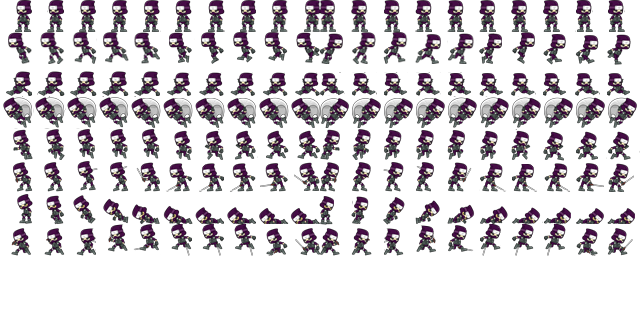
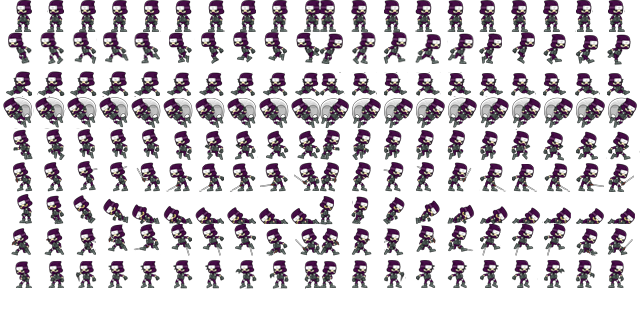
Missile and kunai working

Changed region(s): [[0.0, 0.8125, 1.0, 0.9062]]

diff --git a/NinjaAdventures.js b/NinjaAdventures.js
@@ -53,6 +53,10 @@
 				else if(this.entity.p.direction == "left")
 					this.entity.p.x -= col.obj.p.w;
 			}
+			else if(col.obj.isA("NinjaKunai")) {
+				this.entity.damage(col.obj.p.attack);
+				col.obj.destroy();
+			}
 		}
 
 		/*colisiones: function(collision) {
@@ -91,6 +95,16 @@
 			this.on("playerDie", this, "finish");
 
 			this.on("hit", this, "collision");
+
+			this.on("throwKunai", this, "throw");
+		},
+
+		throw: function() {
+			Q.audio.play("kunai_noise");
+			if(this.p.direction == "right")
+				Q.stage().insert(new Q.NinjaKunai({x: this.p.x + this.p.w, y: this.p.y, direction: this.p.direction, vx: 400, init: this.p.x}));
+			else if(this.p.direction == "left")
+				Q.stage().insert(new Q.NinjaKunai({x: this.p.x - this.p.w, y: this.p.y, direction: this.p.direction, vx: -400, init: this.p.x}));
 		},
 
 		collision: function(col) {
@@ -140,6 +154,8 @@
 			else {					// No muerto.
 				if(Q.inputs['up'])							// Saltos.
 					this.play("jump_" + this.p.direction, 1);
+				else if(Q.inputs['action'])
+					this.play("throw_" + this.p.direction, 1);
 				if(this.p.vy != 0) {							// En el aire cayendo.
 					if(this.p.flying)
 						this.play("glide_" + this.p.direction);
@@ -361,7 +377,12 @@
 					if(this.p.shootTime <= 0) {
 						this.p.shootTime = this.p.shootTimeInit;
 						this.vx = 0;
-						this.play("missil_" + this.p.direction, 1);
+						this.play("missile_" + this.p.direction, 1);
+						if(this.p.direction == "left")
+							Q.stage().insert(new Q.RobotMissile({x: this.p.x - this.p.w, y: this.p.y, direction: this.p.direction, vx: -500, init: this.p.x}));
+						else
+							Q.stage().insert(new Q.RobotMissile({x: this.p.x + this.p.w, y: this.p.y, direction: this.p.direction, vx: 500, init: this.p.x}));
+						
 					}
 					else {
 						if(this.p.vx > 0)
@@ -373,6 +394,80 @@
 				}
 			}
 		}
+	});
+
+	Q.Sprite.extend("RobotMissile", {
+		init: function(p) {
+			this._super(p, {
+				sheet: "missileL",
+				sprite: "missile_anim",
+				damage: 200,
+				vx: -500,
+				direction: "left",
+				init: 0,
+				max: 1000
+			});
+
+			this.add("animation");
+
+			this.play("missile_" + this.p.direction);
+
+			this.on("hit", this, "collision");
+
+			this.on("MissileImpact", this, "delete");
+		},
+
+		collision: function(col) {
+			if(col.obj.isA("Ninja"))
+				col.obj.damage(this.p.damage);
+			else
+				this.destroy();
+			Q.audio.play("explosion", {debounce: 500});
+			this.vx = 0;
+			this.p.sheet = "explosion";
+			this.p.sprite = "explosion_anim";
+			this.play("explosion_animation", 1);		
+		},
+
+		delete: function() {
+			this.destroy();
+		},
+
+		step: function(dt) {
+			this.p.x += this.p.vx * dt;
+			if(this.p.x < this.p.init - this.p.max || this.p.x > this.p.init + this.p.max)
+				this.destroy();
+		}
+	});
+
+	Q.Sprite.extend("NinjaKunai", {
+		init: function(p) {
+			this._super(p, {
+				sheet: "kunaiR",
+				sprite: "kunai_anim",
+				attack: 200,
+				vx: -400,
+				direction: "left",
+				init: 0,
+				max: 1000
+			});
+
+			this.add("animation");
+
+			this.play("kunai_" + this.p.direction);
+
+			this.on("hit", this, "collision");
+		},
+
+		collision: function(col) {
+			this.destroy();
+		},
+
+		step: function(dt) {
+			this.p.x += this.p.vx * dt;
+			if(this.p.x < this.p.init - this.p.max || this.p.x > this.p.init + this.p.max)
+				this.destroy();
+		}	
 	});
 
 	Q.Sprite.extend("Fin", {
@@ -569,7 +664,7 @@
 		});
 	});
 
-	Q.loadTMX("level.tmx, ninja.png, ninja.json, wind.png, wind.json, fan.png, fan.json, acid.png, acid.json, enemy_ninja.png, enemy_ninja.json, enemy_robot.png, enemy_robot.json, food.png, food.json", function() {
+	Q.loadTMX("level.tmx, ninja.png, ninja.json, wind.png, wind.json, fan.png, fan.json, acid.png, acid.json, enemy_ninja.png, enemy_ninja.json, enemy_robot.png, enemy_robot.json, food.png, food.json, robot_missile.png, robot_missile.png, robot_missile.json, explosion.png, explosion.json, kunai.png, kunai.json", function() {
 		Q.compileSheets("ninja.png", "ninja.json");
 		Q.compileSheets("wind.png", "wind.json");
 		Q.compileSheets("fan.png", "fan.json");
@@ -577,6 +672,9 @@
 		Q.compileSheets("enemy_ninja.png", "enemy_ninja.json");
 		Q.compileSheets("enemy_robot.png", "enemy_robot.json");
 		Q.compileSheets("food.png", "food.json");
+		Q.compileSheets("robot_missile.png", "robot_missile.json");
+		Q.compileSheets("explosion.png", "explosion.json");
+		Q.compileSheets("kunai.png", "kunai.json");
 		Q.load({
 			"music_main"       : "music_main.mp3",
 			"sword_attack"     : "sword_attack.mp3",
@@ -584,7 +682,9 @@
 			"woman_scream"     : "woman_scream.mp3",
 			"robot_noise"      : "robot.mp3",
 			"game_over"	       : "game_over.mp3",
-			"game_over_screen" : "game_over_screen.mp3"
+			"game_over_screen" : "game_over_screen.mp3",
+			"explosion"		   : "explosion.mp3",
+			"kunai_noise"      : "kunai.mp3"
 		}, function() {
 			Q.animations("wind_anim", {
 				wind_animation: { frames: [0, 1, 2, 3, 4, 5], rate: 1/6, loop: true}
@@ -625,11 +725,12 @@
 
 				attack_jump_left  : {frames: [140, 141, 142, 143, 144, 145, 146, 147, 148, 149], rate: 1/10, loop: false},
 				attack_jump_right : {frames: [150, 151, 152, 153, 154, 155, 156, 157, 158, 159], rate: 1/10, loop: false},
+
+				throw_left		  : {frames: [160, 161, 162, 163, 164, 165, 166, 167, 168, 169], rate: 1/10, loop: false, trigger: "throwKunai"},
+				throw_right	      : {frames: [170, 171, 172, 173, 174, 175, 176, 177, 178, 179], rate: 1/10, loop: false, trigger: "throwKunai"}
 				/*
 				climb: { frames: [0,1,2,3,4,5,6,7,8,9], rate: 1/10, loop: true }, // Climb_
-
-				throw_right: { frames: [0,1,2,3,4,5,6,7,8,9], rate: 1/10, loop: false }, // Throw__
-				throw_left: { frames: [0,1,2,3,4,5,6,7,8,9], rate: 1/10, loop: false }, // ThrowL__*/
+				*/
 			});
 
 			Q.animations("enemy_ninja_anim", {
@@ -653,27 +754,41 @@
 			});
 
 			Q.animations("enemy_robot_anim", {
-				stand_left : {frames: [0, 1, 2, 3, 4, 5, 6, 7, 8, 9], rate: 1/3, loop: true},
-				stand_right  : {frames: [10, 11, 12, 13, 14, 15, 16, 17, 18, 19], rate: 1/3, loop: true},
+				stand_left    : {frames: [0, 1, 2, 3, 4, 5, 6, 7, 8, 9], rate: 1/3, loop: true},
+				stand_right   : {frames: [10, 11, 12, 13, 14, 15, 16, 17, 18, 19], rate: 1/3, loop: true},
 
-				run_left     : {frames: [20, 21, 22, 23, 24, 25, 26, 27, 28, 29], rate: 1/10, loop: true},
-				run_right    : {frames: [30, 31, 32, 33, 34, 35, 36, 37, 38, 39], rate: 1/10, loop: true},
+				run_left      : {frames: [20, 21, 22, 23, 24, 25, 26, 27, 28, 29], rate: 1/10, loop: true},
+				run_right     : {frames: [30, 31, 32, 33, 34, 35, 36, 37, 38, 39], rate: 1/10, loop: true},
 
-				jump_left    : {frames: [40, 41, 42, 43, 44, 45, 46, 47, 48, 49], rate: 1/10, loop: false},
-				jump_right   : {frames: [50, 51, 52, 53, 54, 55, 56, 57, 58, 59], rate: 1/10, loop: false},
+				jump_left     : {frames: [40, 41, 42, 43, 44, 45, 46, 47, 48, 49], rate: 1/10, loop: false},
+				jump_right    : {frames: [50, 51, 52, 53, 54, 55, 56, 57, 58, 59], rate: 1/10, loop: false},
 
-				fall_left	 : {frames: [49], loop: false},
-				fall_right   : {frames: [59], loop: false},
+				fall_left	  : {frames: [49], loop: false},
+				fall_right    : {frames: [59], loop: false},
 
-				attack_left  : {frames: [60, 61, 62, 63, 64, 65, 66, 67, 68, 69], rate: 1/10, loop: false, trigger: "EnemyAttacked"},
-				attack_right : {frames: [70, 71, 72, 73, 74, 75, 76, 77, 78, 79], rate: 1/10, loop: false, trigger: "EnemyAttacked"},
+				attack_left   : {frames: [60, 61, 62, 63, 64, 65, 66, 67, 68, 69], rate: 1/10, loop: false, trigger: "EnemyAttacked"},
+				attack_right  : {frames: [70, 71, 72, 73, 74, 75, 76, 77, 78, 79], rate: 1/10, loop: false, trigger: "EnemyAttacked"},
 
-				die_left     : {frames: [80, 81, 82, 83, 84, 85, 86, 87, 88, 89], rate: 1/10, loop: false, trigger: "EnemyDie"},
-				die_right    : {frames: [90, 91, 92, 93, 94, 95, 96, 97, 98, 99], rate: 1/10, loop: false, trigger: "EnemyDie"},
+				die_left      : {frames: [80, 81, 82, 83, 84, 85, 86, 87, 88, 89], rate: 1/10, loop: false, trigger: "EnemyDie"},
+				die_right     : {frames: [90, 91, 92, 93, 94, 95, 96, 97, 98, 99], rate: 1/10, loop: false, trigger: "EnemyDie"},
 
-				missil_left  : {frames: [100, 101, 102, 103, 104, 105, 106, 107, 108, 109], rate: 1/10, loop: false, trigger: "EnemyShooted"},
-				missil_right : {frames: [110, 111, 112, 113, 114, 115, 116, 117, 118, 119], rate: 1/10, loop: false, trigger: "EnemyShooted"},
+				missile_left  : {frames: [100, 101, 102, 103, 104, 105, 106, 107, 108, 109], rate: 1/10, loop: false, trigger: "EnemyShooted"},
+				missile_right : {frames: [110, 111, 112, 113, 114, 115, 116, 117, 118, 119], rate: 1/10, loop: false, trigger: "EnemyShooted"},
 			});
+
+			Q.animations("missile_anim", {
+				missile_left  : {frames: [0, 1, 2, 3, 4], rate: 1/5, loop: true},
+				missile_right : {frames: [5, 6, 7, 8, 9], rate: 1/5, loop: true}
+			});
+
+			Q.animations("explosion_anim", {
+				explosion_animation : {frames: [0, 1, 2, 3, 4, 5, 6, 7, 8, 9, 10, 11, 12, 13, 14, 15], rate: 1/16, loop: false, trigger: "MissileImpact"}
+			});
+
+			Q.animations("kunai_anim", {
+				kunai_right : {frames: [0, 1, 2, 3, 4, 5, 6, 7, 8], rate: 1/18, loop: true},
+				kunai_left  : {frames: [9, 10, 11, 12, 13, 14, 15, 16, 17], rate: 1/9, loop: true}
+			})
 
 			Q.stageScene("level1", 0);
 			//Q.stageScene("startMenu", 0);
